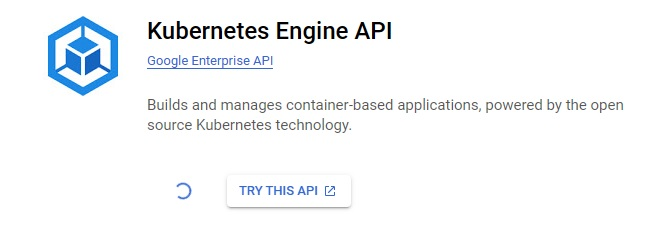
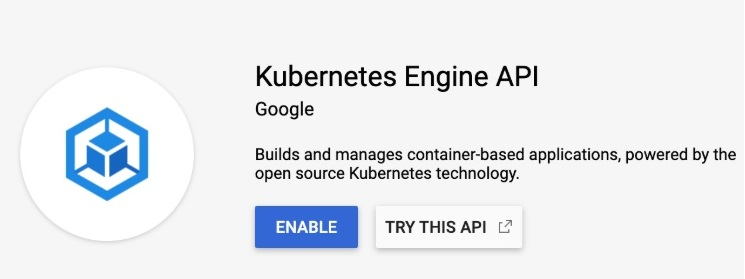
airflow on GKE

diff --git a/2_Workflow-Orchestration-(AirFlow)/README.md b/2_Workflow-Orchestration-(AirFlow)/README.md
@@ -1821,6 +1821,8 @@ Google Kubernetes Engine (GKE) is a managed environment provided by Google Cloud
 
 Enabling the API is the first step in using Google Kubernetes Engine, and it ensures that the required services and resources for managing Kubernetes clusters are available in your project. You can enable it from the Google Cloud Console or via the gcloud command-line tool. Once the API is enabled, you can use GKE to run and manage containerized workloads in a fully managed Kubernetes environment.
 
+Nn the left hand side find Kubernetes Engine → Configurationand enable the Kubernetes Engine API 
+
 ![kubeapi](images/kubeapi.jpg)
 
 **2: Install SDK, kubectl and helm**
@@ -1875,7 +1877,7 @@ gcloud container clusters create airflow-cluster \
   --region=us-central1
 ```  
 
-can take up to 5 mins
+Can take up to 5 mins
 
 Then create a new namespace called airflow within a Kubernetes cluster.
 
@@ -1889,7 +1891,7 @@ Browse to the Clusters tab on Kubernetes Engine to view the newly created cluste
 
 ![kube0](images/kube0.jpg)
 
-**4: values.yaml**
+**4: Values.yaml**
 
 The values.yaml file in Helm is a configuration file used to customize the deployment of a Helm chart. Helm charts come with a set of default configuration values, but you can modify these values to suit your specific needs by creating and using a custom values.yaml file.
 
@@ -1915,7 +1917,7 @@ Default chart yaml:
 -  [`default-values.yaml`](airflow-kubernetes/default-values.yaml)
 
 
-Customized yaml with local executor, disables triggerer and smaller volumes:
+Customized yaml with local executor, disabled triggerer and reduced volumes:
 
 -  [`values.yaml`](airflow-kubernetes/values.yaml)
 
@@ -1928,7 +1930,7 @@ This command installs the Apache Airflow application to a Kubernetes cluster usi
 helm install airflow apache-airflow/airflow -n airflow -f values.yaml
 ```
 
-can take up to 5 mins
+It may take up to 5 minutes
 
 **6: Check Pods**
 
@@ -2014,7 +2016,7 @@ Complete Connection id, Connection type, your project id and Keyfile Json (just 
 ![kubeconn](images/kubeconn.jpg)
 
 
-**3: install python dependencies**
+**3: Install python dependencies**
 
 Modify the values.yaml to include the python dependencies. Add this line just above the executor variable:
 
